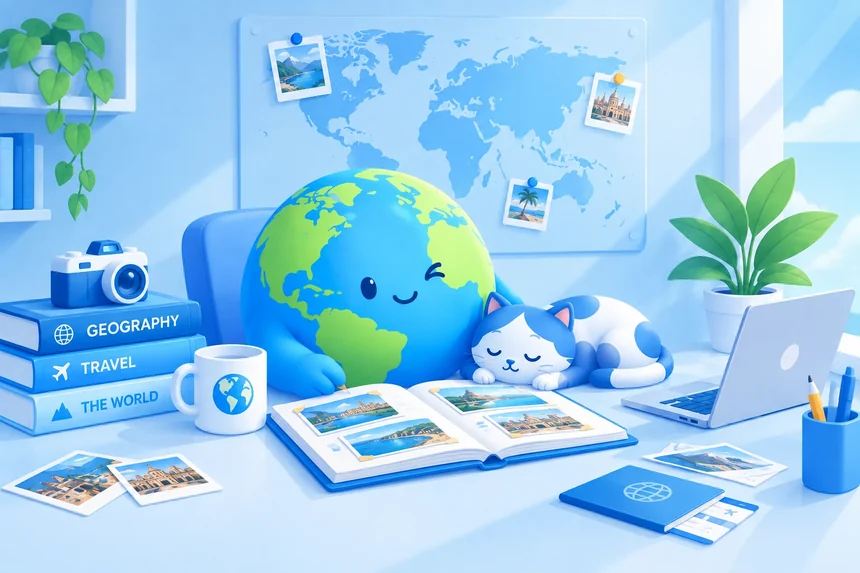
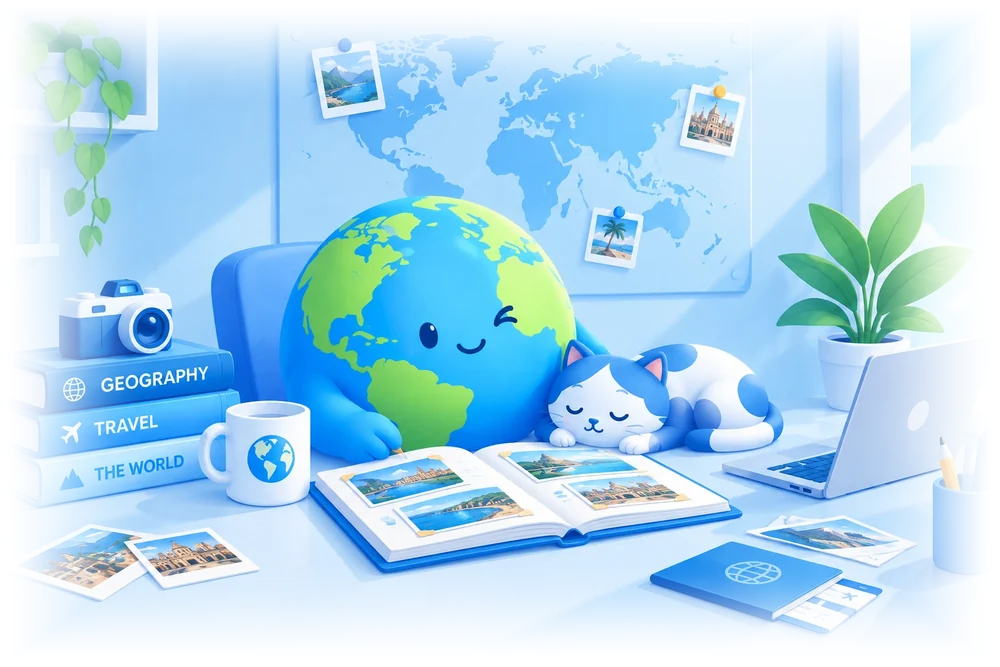
Картинки справа, крупно и без рамки
Все три иллюстрации переставлены направо и увеличены: на страницах «О
проекте» и «Политика» до 520 точек, на итогах игры до 290. Ограничение
ширины текста с этих страниц снято — теперь они занимают всю полосу.

Главное — края. Растворяю их в прозрачность прямо в файле, как на 404 и
на заглушке, а под картинкой рисую мягкое эллиптическое пятно того же
цвета, что и её кайма: вместе они уводят синеву иллюстрации в светлый фон
страницы без видимой границы. Цвет пятна у каждой свой, взят замером
краевого пояса файла.

Пятно рисуется фоном самого блока, а не отдельным слоем: слой шире блока
вылезал за край страницы и включал прокрутку вбок.

У картинки на итогах растушёвка шире прочих — 26% против 16%. Она
показывается всего 280 точками, и при узкой кайме растение у левого края
обрывалось прямой линией.

Claude-Session: https://claude.ai/code/session_01ASBRzsMa5xAciJG4GAr6wp

diff --git a/styles.css b/styles.css
@@ -379,23 +379,35 @@ td{padding:13px 12px 13px 0;border-bottom:2px solid var(--n200);}
   box-shadow:0 10px 24px rgba(15,47,94,.28);}
 .pausepage .btn.primary:hover{background:var(--ink);border-color:var(--ink);color:#fff;}
 
-/* Картинка рядом с текстом на страницах «О проекте» и «Политика». Текст
-   обтекает её справа: колонки здесь были бы лишними — заголовок должен
-   остаться во всю ширину, а абзацы сами обойдут картинку. */
-/* На телефоне картинку держим скромной и по центру: во всю ширину она
-   отодвигала бы текст на целый экран, а на эти страницы приходят читать. */
-.pagepic{display:block;width:min(100%,320px);height:auto;border-radius:var(--r);
-  box-shadow:var(--sh-md);margin:0 auto 20px;}
-@media (min-width:760px){
-  .prose.withpic .pagepic{float:left;width:min(38%,360px);margin:4px 30px 20px 0;}
-  /* Обычный предел строки в 68 знаков рядом с картинкой оставлял бы колонку
-     шириной в пару слов — здесь строку ограничивает сама картинка. */
+/* Картинка на страницах «О проекте» и «Политика»: текст слева, иллюстрация
+   справа и крупно. Края у неё растворены в прозрачность прямо в файле, а под
+   ними лежит мягкое пятно того же цвета, что и её кайма, — так синева картинки
+   уходит в светлый фон страницы без видимой границы. Цвет пятна взят замером
+   краевого пояса самого файла.
+
+   Обтекание, а не колонки: заголовок остаётся во всю ширину, а абзацы сами
+   обходят картинку — и текст любой длины ложится правильно без разметки. */
+/* Пятно рисуем фоном самого блока, а не отдельным слоем: слой шире блока
+   вылезал за край страницы и включал прокрутку вбок. Эллипс «closest-side»
+   ровно вписан в картинку, поэтому гаснет там же, где гаснет она сама. */
+.picfade{display:block;
+  background:radial-gradient(ellipse closest-side,var(--pic) 0%,var(--pic) 40%,transparent 100%);}
+.picfade img{display:block;width:100%;height:auto;}
+
+@media (min-width:860px){
+  .prose.withpic .picfade{float:right;width:min(46%,520px);
+    margin:0 0 10px clamp(18px,3vw,36px);}
+  /* Рядом с картинкой предел строки в 68 знаков оставлял бы колонку в пару
+     слов — здесь ширину задаёт то, что осталось от страницы. */
   .prose.withpic p,.prose.withpic li{max-width:none;}
-  /* Подвал раздела не должен заезжать под картинку, если текст кончился раньше. */
+  /* Нижняя черта раздела не должна заезжать под картинку. */
   .prose.withpic::after{content:"";display:block;clear:both;}
+}
+@media (max-width:859px){
+  .prose.withpic .picfade{width:min(100%,360px);margin:4px auto 14px;}
 }
 
 /* Итог игры: слева кнопка «поделиться», справа картинка. */
-.sharewrap{display:flex;align-items:center;gap:clamp(16px,3vw,32px);flex-wrap:wrap;margin-top:30px;}
-.sharewrap .sharebar{flex:1 1 260px;min-width:0;margin-top:0;}
-.shareart{flex:0 0 auto;width:clamp(130px,26vw,200px);height:auto;border-radius:var(--r);display:block;}
+.sharewrap{display:flex;align-items:center;gap:clamp(6px,1.5vw,18px);flex-wrap:wrap;margin-top:26px;}
+.sharewrap .sharebar{flex:1 1 240px;min-width:0;margin-top:0;}
+.sharewrap .picfade{flex:0 0 auto;width:clamp(170px,34vw,290px);}

diff --git a/about.html b/about.html
@@ -35,10 +35,12 @@
 CA.ready(function () {
   var el = CA.el;
   // Картинка слева, текст справа; на телефоне картинка уходит под заголовок.
-  var art = el("img", { class: "pagepic", src: "art/about.webp", alt: "",
-    width: "860", height: "573", decoding: "async" });
-  CA.mount(el("div", { class: "screen prose withpic", style: "max-width:960px" }, [
-    el("a", { href: "index.html", style: "font-size:15px" }, ["← Вернуться к игре"]),
+  // Цвет пятна под картинкой — замер краевого пояса самого файла.
+  var art = el("div", { class: "picfade", style: "--pic:#a3d0ed" }, [
+    el("img", { src: "art/about.webp", alt: "Земля за письменным столом с книгами по географии, рядом спит кот", width: "860", height: "573", decoding: "async" })
+  ]);
+  CA.mount(el("div", { class: "screen prose withpic" }, [
+    el("a", { class: "backlink", href: "index.html", style: "font-size:15px" }, ["← Вернуться к игре"]),
     el("h1", { class: "big", style: "font-size:clamp(30px,4vw,44px);margin:18px 0 20px" }, ["О проекте"]),
     art,
     el("p", {}, [el("b", { style: "font-weight:600" }, ["Cosmopolitan — Атлас памяти"]), " — независимый образовательный проект: викторина для проверки и тренировки знаний географии — стран, столиц, флагов и их расположения на карте мира."]),

diff --git a/privacy.html b/privacy.html
@@ -34,10 +34,12 @@
 <script>
 CA.ready(function () {
   var el = CA.el;
-  var art = el("img", { class: "pagepic", src: "art/privacy.webp", alt: "",
-    width: "560", height: "560", decoding: "async" });
-  CA.mount(el("div", { class: "screen prose withpic", style: "max-width:960px" }, [
-    el("a", { href: "index.html", style: "font-size:15px" }, ["← Вернуться к игре"]),
+  // Цвет пятна под картинкой — замер краевого пояса самого файла.
+  var art = el("div", { class: "picfade", style: "--pic:#9cd1f7" }, [
+    el("img", { src: "art/privacy.webp", alt: "Земля в очках печатает на машинке, рядом спит кот", width: "560", height: "560", decoding: "async" })
+  ]);
+  CA.mount(el("div", { class: "screen prose withpic" }, [
+    el("a", { class: "backlink", href: "index.html", style: "font-size:15px" }, ["← Вернуться к игре"]),
     el("h1", { class: "big", style: "font-size:clamp(28px,3.6vw,40px);margin:18px 0 8px" }, ["Политика конфиденциальности"]),
     art,
     el("p", { style: "margin:0;font-size:15px;color:var(--n700)" }, ["Действует в отношении сайта cosmopolitan-atlas.online. Последнее обновление: сентябрь 2026."]),

diff --git a/core.js b/core.js
@@ -911,10 +911,13 @@
       else prepare();
     }
     if (!opts.art) return wrap;
-    return el("div", { class: "sharewrap" }, [wrap, el("img", {
-      class: "shareart", src: opts.art, alt: "", loading: "lazy", decoding: "async",
-      width: "480", height: "480"
-    })]);
+    // Края картинки растворены в файле, а под ними — пятно того же цвета:
+    // вместе они уводят её синеву в светлый фон страницы без границы.
+    return el("div", { class: "sharewrap" }, [wrap,
+      el("div", { class: "picfade", style: "--pic:#a8d6f6" }, [
+        el("img", { src: opts.art, alt: "", loading: "lazy", decoding: "async", width: "760", height: "760" })
+      ])
+    ]);
   }
 
   /* --- рейтинг --- */
